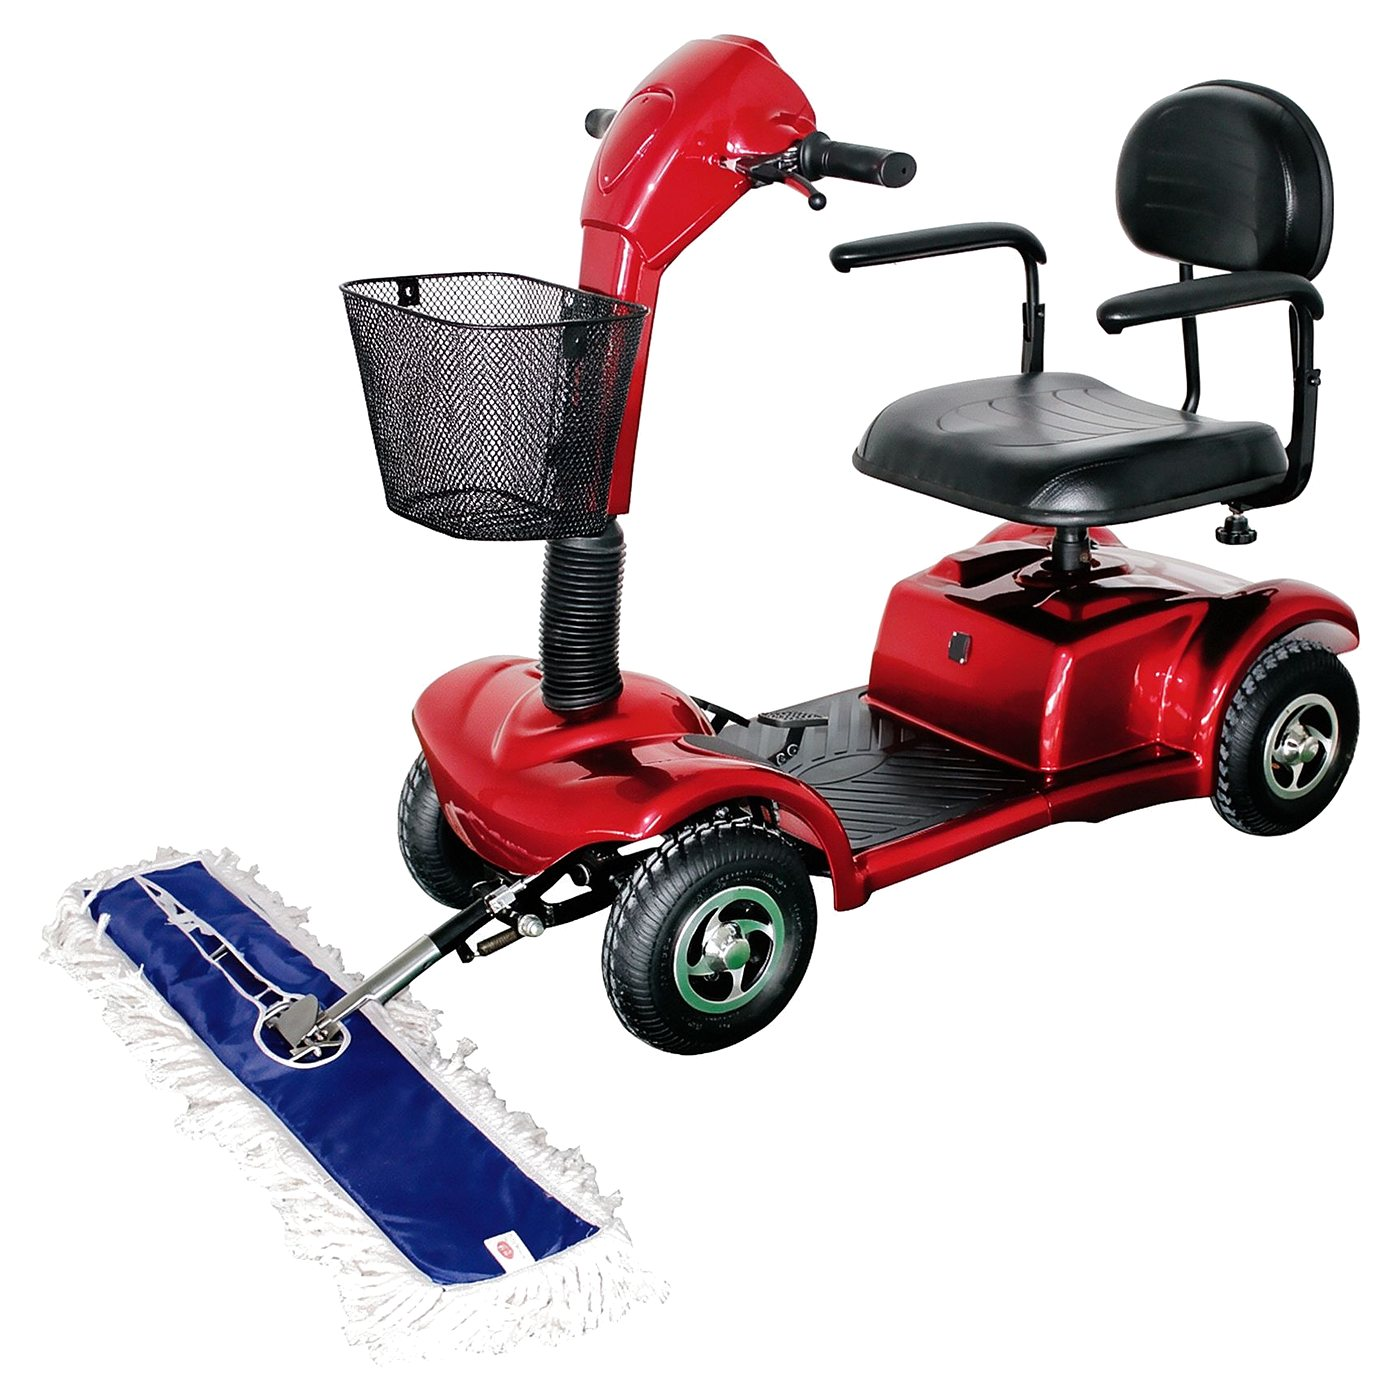
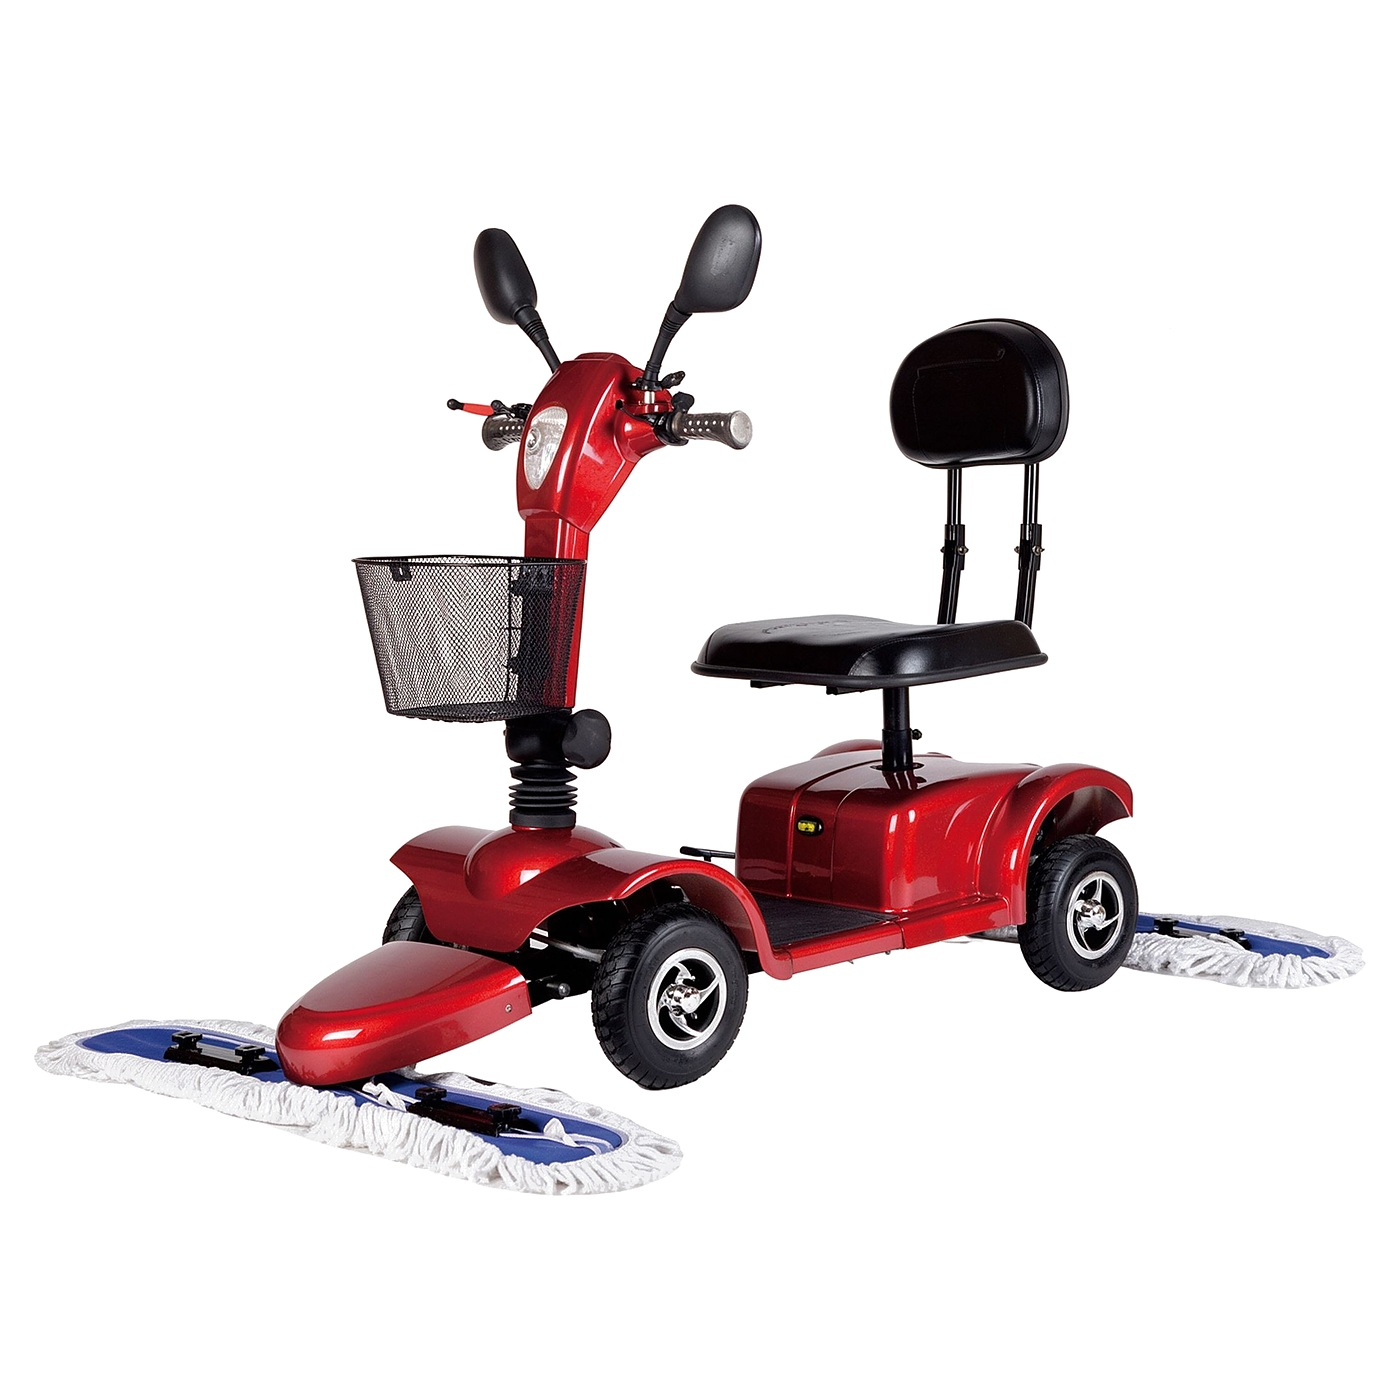
DS-103: replace main image with HD rear-mirror view, add 5 posters

diff --git a/ds-103.html b/ds-103.html
@@ -16,7 +16,7 @@
   <meta property="og:description" content="Ride-on electric dust push cart with a 900 mm dust mop: 24 V system, 350 W rear drive motor, up to 9 km/h and 25 km per charge, 125 kg load, 16% climb, 8-inch solid tyres, 58 kg including battery and a 1100 x 510 x 490 mm carton - dry dust and grit clearing for warehouses, workshops, airports and malls.">
   <meta property="og:url" content="https://feliclean.com/ds-103.html">
   <meta property="og:image" content="https://feliclean.com/assets/img/products/ds-103/ds-103-electric-driving-dust-push-cart-white-background.jpg">
-  <meta property="og:image:alt" content="DS-103 electric driving dust push cart in red, seen from the front left: black seat with backrest and armrests, front mesh basket on the steering column, black foot platform, four wheels with 8-inch solid tyres and a wide blue dust mop carried on a front linkage, on a clean white background">
+  <meta property="og:image:alt" content="DS-103 electric driving dust push cart in red, seen from the front right: two black rear-view mirrors on the handlebars, black seat with backrest, front mesh basket, black foot platform, 8-inch solid tyres and two blue dust mops carried at the front and rear, on a clean white background">
   <meta name="twitter:card" content="summary_large_image">
 
   <link href="assets/img/favicon.png" rel="icon">
@@ -36,44 +36,117 @@
 
   <script type="application/ld+json">
   {
-    "@context": "https://schema.org",
-    "@type": "Product",
-    "name": "900mm Electric Driving Dust Push Cart DS-103",
-    "sku": "DS-103",
-    "category": "Commercial ride-on electric dust push cart / floor dust sweeper",
-    "description": "DS-103 electric driving dust push cart: a ride-on floor dust sweeper with a 900 mm dust mop carried on a front linkage. 24 V system, 350 W rear drive motor and 230 W motor, 24 V / 2 A charger, up to 9 km/h and 25 km per full charge, 125 kg maximum load, 16% climbing grade, 70 mm obstacle height, 90 mm ground clearance, 1100 mm turning radius, 8-inch solid tyres, 58 kg total weight including the 13 kg battery, packed in one 1100 x 510 x 490 mm carton.",
-    "image": [
-      "https://feliclean.com/assets/img/products/ds-103/ds-103-electric-driving-dust-push-cart-white-background.jpg"
-    ],
-    "brand": {
-      "@type": "Brand",
-      "name": "FeliClean"
+  "@context": "https://schema.org",
+  "@type": "Product",
+  "name": "900mm Electric Driving Dust Push Cart DS-103",
+  "sku": "DS-103",
+  "category": "Commercial ride-on electric dust push cart / floor dust sweeper",
+  "description": "DS-103 electric driving dust push cart: a ride-on floor dust sweeper with a 900 mm dust mop carried on a front linkage. 24 V system, 350 W rear drive motor and 230 W motor, 24 V / 2 A charger, up to 9 km/h and 25 km per full charge, 125 kg maximum load, 16% climbing grade, 70 mm obstacle height, 90 mm ground clearance, 1100 mm turning radius, 8-inch solid tyres, 58 kg total weight including the 13 kg battery, packed in one 1100 x 510 x 490 mm carton.",
+  "image": [
+    "https://feliclean.com/assets/img/products/ds-103/ds-103-electric-driving-dust-push-cart-white-background.jpg",
+    "https://feliclean.com/assets/img/products/ds-103/ds-103-electric-dust-push-cart-ride-dont-push-poster.jpg",
+    "https://feliclean.com/assets/img/products/ds-103/ds-103-ride-on-seat-and-controls-poster.jpg",
+    "https://feliclean.com/assets/img/products/ds-103/ds-103-24v-drive-system-and-range-poster.jpg",
+    "https://feliclean.com/assets/img/products/ds-103/ds-103-chassis-obstacle-and-climbing-poster.jpg",
+    "https://feliclean.com/assets/img/products/ds-103/ds-103-applications-and-shipping-poster.jpg"
+  ],
+  "brand": {
+    "@type": "Brand",
+    "name": "FeliClean"
+  },
+  "manufacturer": {
+    "@type": "Organization",
+    "name": "Guangzhou Feliclean Co., Ltd"
+  },
+  "url": "https://feliclean.com/ds-103.html",
+  "additionalProperty": [
+    {
+      "@type": "PropertyValue",
+      "name": "Machine type",
+      "value": "Ride-on electric dust push cart"
     },
-    "manufacturer": {
-      "@type": "Organization",
-      "name": "Guangzhou Feliclean Co., Ltd"
+    {
+      "@type": "PropertyValue",
+      "name": "Sweeping width",
+      "value": "900 mm"
     },
-    "url": "https://feliclean.com/ds-103.html",
-    "additionalProperty": [
-      {"@type": "PropertyValue", "name": "Machine type", "value": "Ride-on electric dust push cart"},
-      {"@type": "PropertyValue", "name": "Sweeping width", "value": "900 mm"},
-      {"@type": "PropertyValue", "name": "Product size (L x W x H)", "value": "1650 x 900 x 850 mm"},
-      {"@type": "PropertyValue", "name": "Packing size (L x W x H)", "value": "1100 x 510 x 490 mm"},
-      {"@type": "PropertyValue", "name": "Total weight", "value": "58 kg (battery included)"},
-      {"@type": "PropertyValue", "name": "Battery weight", "value": "13 kg"},
-      {"@type": "PropertyValue", "name": "Maximum load", "value": "125 kg"},
-      {"@type": "PropertyValue", "name": "Maximum speed", "value": "9 km/h"},
-      {"@type": "PropertyValue", "name": "Range per full charge", "value": "25 km"},
-      {"@type": "PropertyValue", "name": "Motor power", "value": "230 W"},
-      {"@type": "PropertyValue", "name": "Rear drive motor", "value": "24 V / 350 W"},
-      {"@type": "PropertyValue", "name": "Charger", "value": "24 V / 2 A"},
-      {"@type": "PropertyValue", "name": "Maximum climbing grade", "value": "16%"},
-      {"@type": "PropertyValue", "name": "Obstacle height", "value": "70 mm"},
-      {"@type": "PropertyValue", "name": "Ground clearance", "value": "90 mm"},
-      {"@type": "PropertyValue", "name": "Turning radius", "value": "1100 mm"},
-      {"@type": "PropertyValue", "name": "Tyre size", "value": "8-inch solid tyre"}
-    ]
-  }
+    {
+      "@type": "PropertyValue",
+      "name": "Product size (L x W x H)",
+      "value": "1650 x 900 x 850 mm"
+    },
+    {
+      "@type": "PropertyValue",
+      "name": "Packing size (L x W x H)",
+      "value": "1100 x 510 x 490 mm"
+    },
+    {
+      "@type": "PropertyValue",
+      "name": "Total weight",
+      "value": "58 kg (battery included)"
+    },
+    {
+      "@type": "PropertyValue",
+      "name": "Battery weight",
+      "value": "13 kg"
+    },
+    {
+      "@type": "PropertyValue",
+      "name": "Maximum load",
+      "value": "125 kg"
+    },
+    {
+      "@type": "PropertyValue",
+      "name": "Maximum speed",
+      "value": "9 km/h"
+    },
+    {
+      "@type": "PropertyValue",
+      "name": "Range per full charge",
+      "value": "25 km"
+    },
+    {
+      "@type": "PropertyValue",
+      "name": "Motor power",
+      "value": "230 W"
+    },
+    {
+      "@type": "PropertyValue",
+      "name": "Rear drive motor",
+      "value": "24 V / 350 W"
+    },
+    {
+      "@type": "PropertyValue",
+      "name": "Charger",
+      "value": "24 V / 2 A"
+    },
+    {
+      "@type": "PropertyValue",
+      "name": "Maximum climbing grade",
+      "value": "16%"
+    },
+    {
+      "@type": "PropertyValue",
+      "name": "Obstacle height",
+      "value": "70 mm"
+    },
+    {
+      "@type": "PropertyValue",
+      "name": "Ground clearance",
+      "value": "90 mm"
+    },
+    {
+      "@type": "PropertyValue",
+      "name": "Turning radius",
+      "value": "1100 mm"
+    },
+    {
+      "@type": "PropertyValue",
+      "name": "Tyre size",
+      "value": "8-inch solid tyre"
+    }
+  ]
+}
   </script>
   <script type="application/ld+json">
   {
@@ -132,8 +205,16 @@
         <div class="pdp">
           <div class="pdp-left">
             <div class="pdp-gallery">
+              <div class="pdp-thumbs pdp-thumbs--many">
+                <button class="pdp-thumb active" data-full="assets/img/products/ds-103/ds-103-electric-driving-dust-push-cart-white-background.jpg" type="button"><img src="assets/img/products/ds-103/ds-103-electric-driving-dust-push-cart-white-background.jpg" alt="DS-103 electric driving dust push cart in red, seen from the front right: two black rear-view mirrors on the handlebars, black seat with backrest, front mesh basket, black foot platform, 8-inch solid tyres and two blue dust mops carried at the front and rear, on a clean white background" width="1400" height="1400" loading="eager"></button>
+                <button class="pdp-thumb" data-full="assets/img/products/ds-103/ds-103-electric-dust-push-cart-ride-dont-push-poster.jpg" type="button"><img src="assets/img/products/ds-103/ds-103-electric-dust-push-cart-ride-dont-push-poster.jpg" alt="DS-103 electric dust push cart poster headed Ride, don't push with the machine on a warehouse floor, captioned DS-103 Electric Driving Dust Push Cart and listing 900 mm dust-push width, up to 9 km/h and 25 km per charge, 125 kg load" width="1100" height="1375" loading="lazy"></button>
+                <button class="pdp-thumb" data-full="assets/img/products/ds-103/ds-103-ride-on-seat-and-controls-poster.jpg" type="button"><img src="assets/img/products/ds-103/ds-103-ride-on-seat-and-controls-poster.jpg" alt="DS-103 ride-on dust push cart poster headed Sit and drive, showing the padded seat, backrest, armrests, foot platform and front basket, listing padded seat backrest and armrests, flat foot platform and front basket, 125 kg maximum load" width="1100" height="1375" loading="lazy"></button>
+                <button class="pdp-thumb" data-full="assets/img/products/ds-103/ds-103-24v-drive-system-and-range-poster.jpg" type="button"><img src="assets/img/products/ds-103/ds-103-24v-drive-system-and-range-poster.jpg" alt="DS-103 power system poster headed 24 V working system with the subtitle 350 W rear drive motor and 230 W mop motor, and three cards reading 9 km/h maximum speed, 25 km range per charge and 24 V / 2 A charger" width="1100" height="1375" loading="lazy"></button>
+                <button class="pdp-thumb" data-full="assets/img/products/ds-103/ds-103-chassis-obstacle-and-climbing-poster.jpg" type="button"><img src="assets/img/products/ds-103/ds-103-chassis-obstacle-and-climbing-poster.jpg" alt="DS-103 chassis poster headed Built for real floors at a workshop doorway, listing 8-inch solid tyres no punctures, 70 mm obstacle and 90 mm clearance, 16% climb and 1100 mm turning radius" width="1100" height="1375" loading="lazy"></button>
+                <button class="pdp-thumb" data-full="assets/img/products/ds-103/ds-103-applications-and-shipping-poster.jpg" type="button"><img src="assets/img/products/ds-103/ds-103-applications-and-shipping-poster.jpg" alt="DS-103 application and shipping poster headed Clean large floors faster in a warehouse aisle, listing warehouses workshops airports and malls, 58 kg including battery in one 1100 x 510 x 490 mm carton, spare mops batteries and tyres and 12 month motor warranty" width="1100" height="1375" loading="lazy"></button>
+              </div>
               <div class="pdp-main pdp-main--cap" id="pdpMain">
-                <img src="assets/img/products/ds-103/ds-103-electric-driving-dust-push-cart-white-background.jpg" alt="DS-103 electric driving dust push cart in red, seen from the front left: black seat with backrest and armrests, front mesh basket on the steering column, black foot platform, four wheels with 8-inch solid tyres and a wide blue dust mop carried on a front linkage, on a clean white background" width="1400" height="1400" loading="eager">
+                <img src="assets/img/products/ds-103/ds-103-electric-driving-dust-push-cart-white-background.jpg" alt="DS-103 electric driving dust push cart in red, seen from the front right: two black rear-view mirrors on the handlebars, black seat with backrest, front mesh basket, black foot platform, 8-inch solid tyres and two blue dust mops carried at the front and rear, on a clean white background" width="1400" height="1400" loading="eager">
               </div>
             </div>
 

diff --git a/assets/js/products-data.js b/assets/js/products-data.js
@@ -99,7 +99,7 @@ window.FELI_PRODUCTS = [
   {
     href: "ds-103.html",
     img: "assets/img/products/ds-103/ds-103-electric-driving-dust-push-cart-white-background.jpg",
-    alt: "DS-103 electric driving dust push cart in red with a ride-on seat and backrest, front mesh basket, foot platform, 8-inch solid tyres and a blue dust mop on a front linkage",
+    alt: "DS-103 electric driving dust push cart in red with rear-view mirrors, a ride-on seat and backrest, front mesh basket, 8-inch solid tyres and two blue dust mops on front and rear linkages",
     model: "DS-103",
     name: "Electric Driving Dust Push Cart",
     group: "eq",
